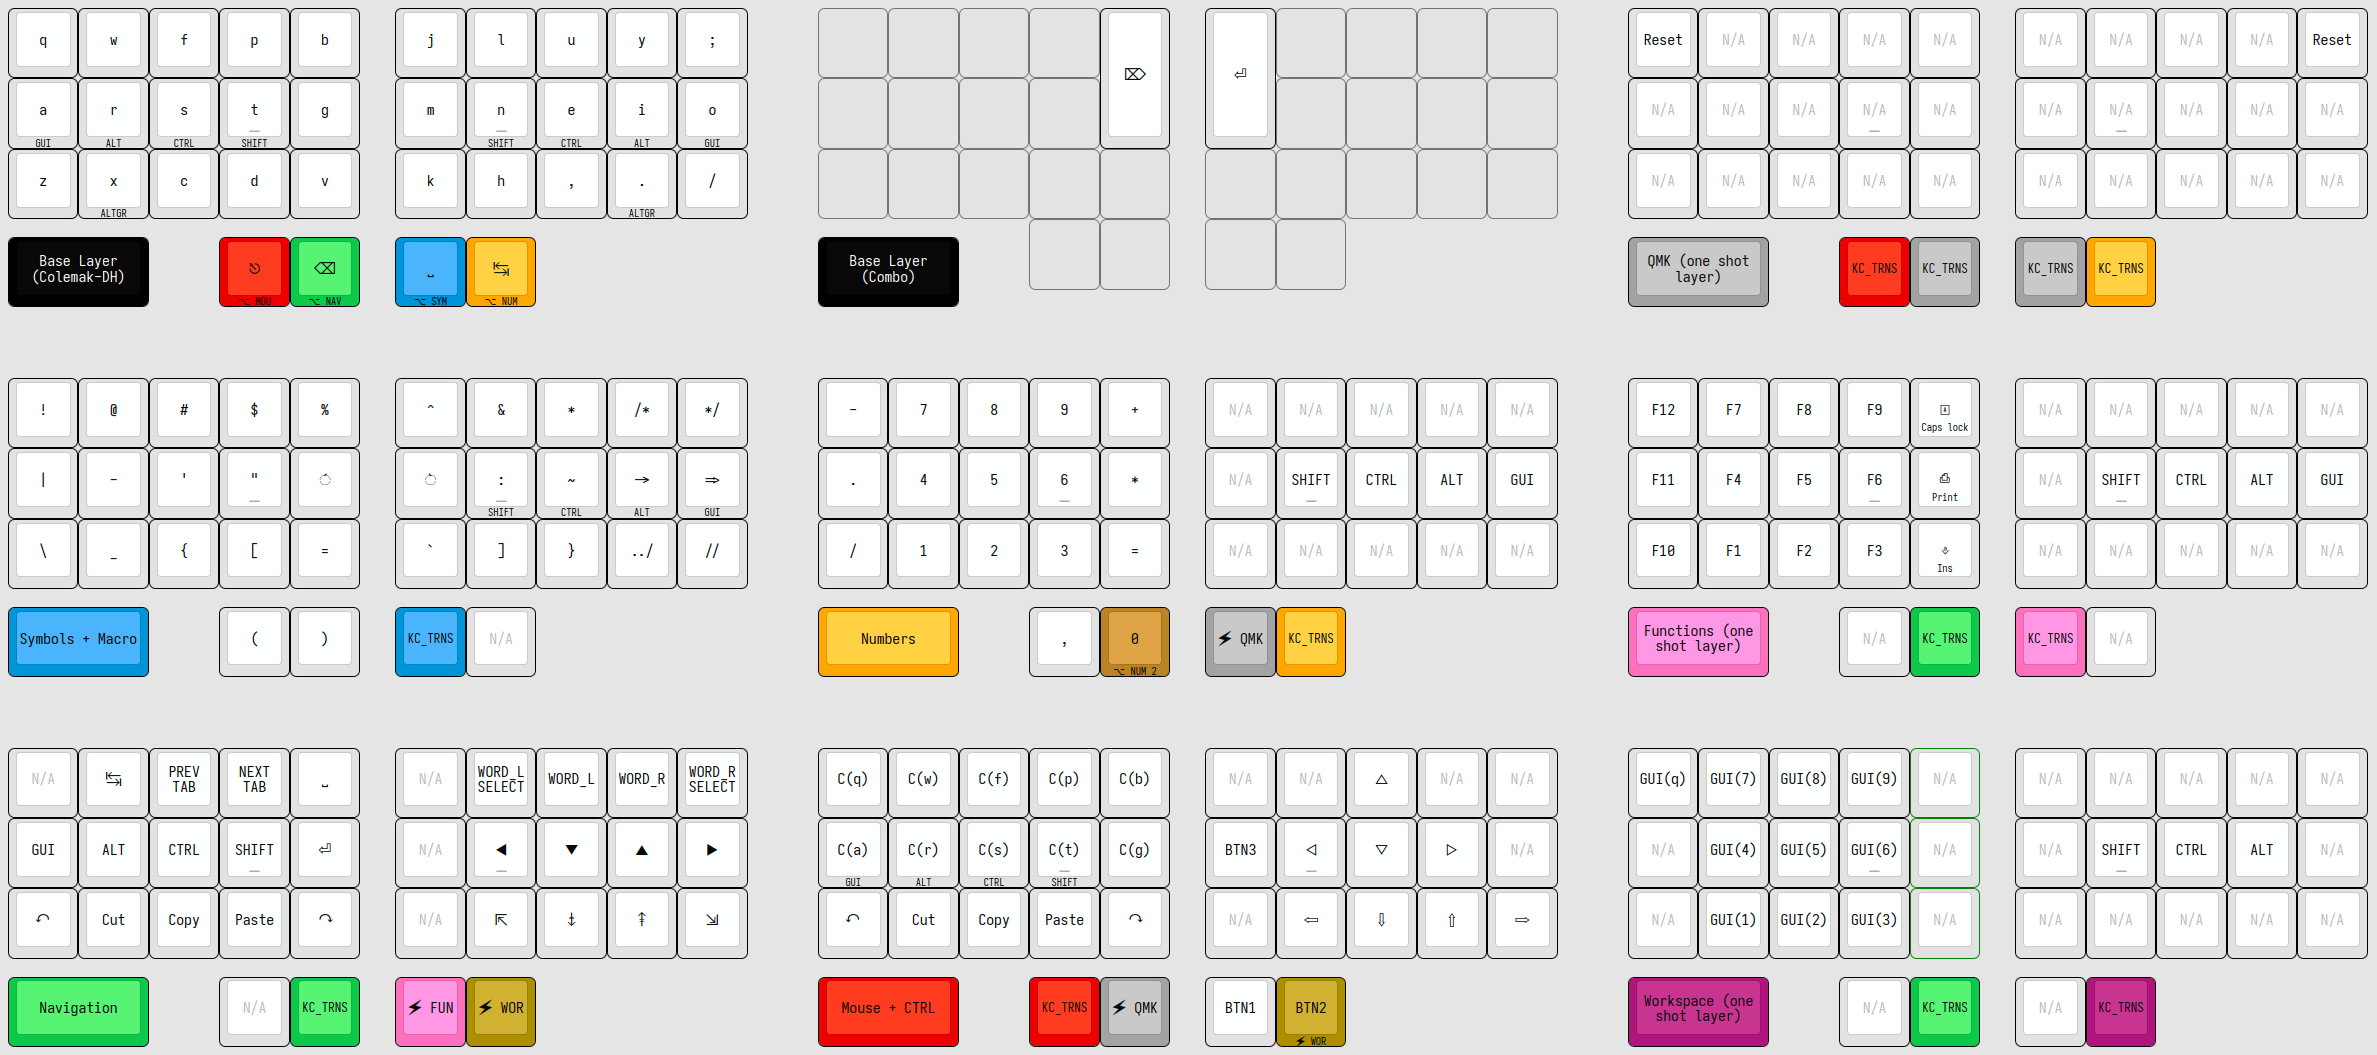
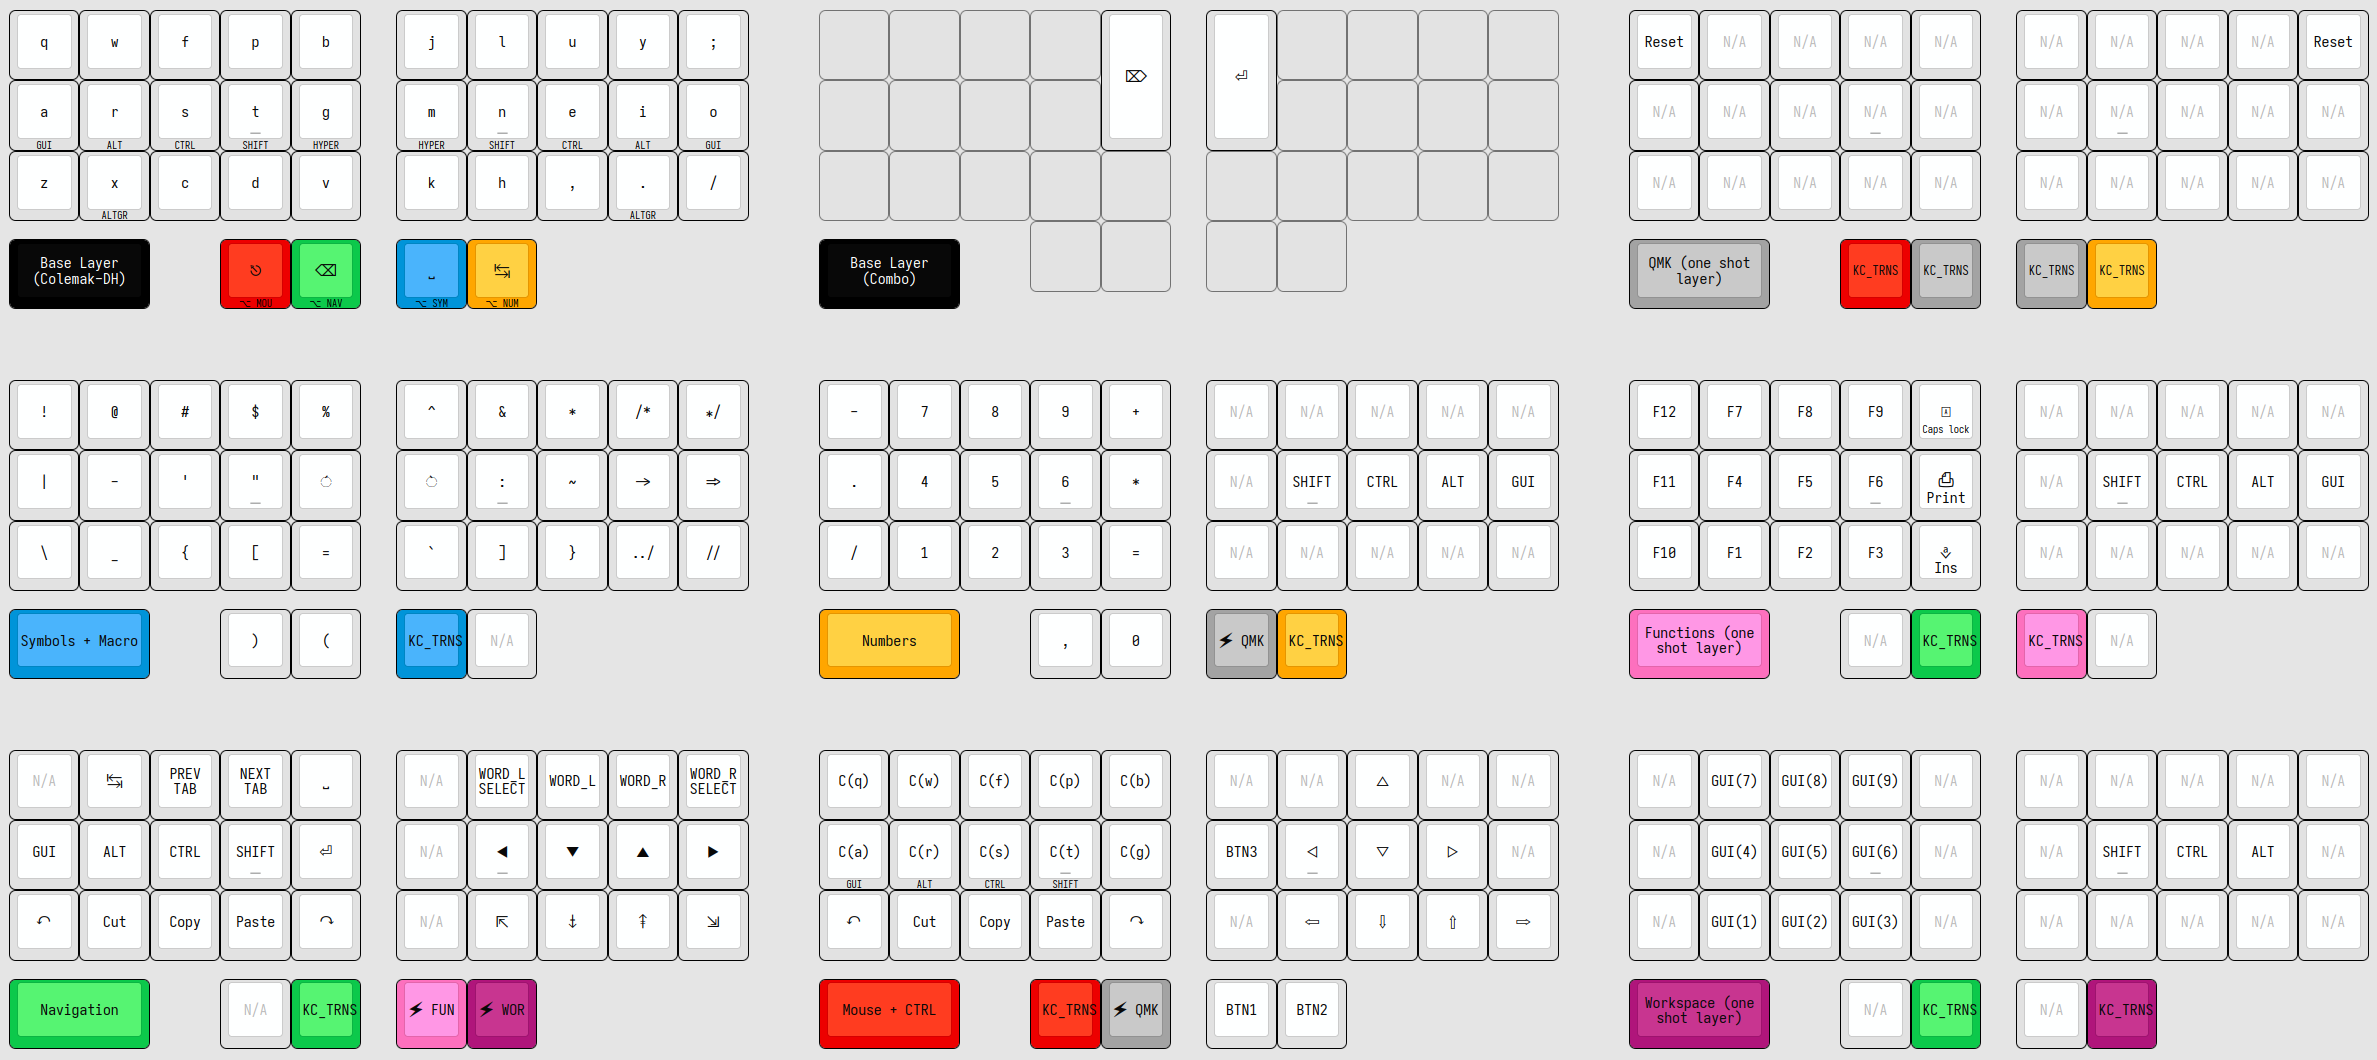
Updated json/png, fixed double shift caps

diff --git a/keymap.c b/keymap.c
@@ -2,8 +2,6 @@
 
 #include "keycodes.h"
 
-
-
 const uint16_t PROGMEM keymaps[][MATRIX_ROWS][MATRIX_COLS] = {
 
 // -----------------------------------------------------------------------------
@@ -69,7 +67,7 @@ const uint16_t PROGMEM keymaps[][MATRIX_ROWS][MATRIX_COLS] = {
 // Workspace (AwesomeWM navigation)
 // -----------------------------------------------------------------------------
   [_WSPC] = LAYOUT_split_3x5_2(
-    G(KC_Q) ,KC_AW7  ,KC_AW8  ,KC_AW9  ,XXXXXXX,                XXXXXXX ,XXXXXXX ,XXXXXXX ,XXXXXXX ,XXXXXXX,
+    XXXXXXX ,KC_AW7  ,KC_AW8  ,KC_AW9  ,XXXXXXX,                XXXXXXX ,XXXXXXX ,XXXXXXX ,XXXXXXX ,XXXXXXX,
     XXXXXXX ,KC_AW4  ,KC_AW5  ,KC_AW6  ,XXXXXXX,                XXXXXXX ,KC_RSFT ,KC_RCTL ,KC_LALT ,KC_RGUI,
     XXXXXXX ,KC_AW1  ,KC_AW2  ,KC_AW3  ,XXXXXXX,                XXXXXXX ,XXXXXXX ,XXXXXXX ,KC_RALT ,XXXXXXX,
                                     XXXXXXX ,XXXXXXX,       XXXXXXX ,XXXXXXX

diff --git a/config.h b/config.h
@@ -24,7 +24,7 @@ along with this program.  If not, see <http://www.gnu.org/licenses/>.
 /* Fine tuning */
 // - Reduce errors on fast typing
 #define IGNORE_MOD_TAP_INTERRUPT
-// - Enable rapid switch from tap to hold, disables double tap hold auto-repeat.
+//, - Enable rapid switch from tap to hold, disables double tap hold auto-repeat.
 // #define TAPPING_FORCE_HOLD
 // - enable TAPPING_FORCE_HOLD only on single keys (home row mods) in order to allow auto-repeat on all other keys (like backspace or space).
 #define TAPPING_FORCE_HOLD_PER_KEY
@@ -35,7 +35,7 @@ along with this program.  If not, see <http://www.gnu.org/licenses/>.
 #define TAPPING_TERM_PER_KEY
 
 
-#define DOUBLE_TAP_SHIFT_TURNS_ON_CAPS_WORD
+#define BOTH_SHIFTS_TURNS_ON_CAPS_WORD
 
 // - Mouse tuning
 #undef MOUSEKEY_DELAY

diff --git a/keycodes.h b/keycodes.h
@@ -35,7 +35,9 @@ enum{
 #define KH_E RCTL_T(KC_E)          // I / Right Ctrl
 #define KH_N RSFT_T(KC_N)          // N / Right Shift
 #define KH_X RALT_T(KC_X)          // X / Right Alt
-#define KH_DOT RALT_T(KC_DOT)       // . / Right Alt
+#define KH_DOT RALT_T(KC_DOT)      // . / Right Alt
+/* #define KH_G HYPR_T(KC_G)          // G / Hyper */
+/* #define KH_M HYPR_T(KC_M)          // M / Hyper */
 
 // - Thumbs keys/modifiers:
 #define CC_SYSP LT(_SYMB, KC_SPC)     // Space / _symbols
